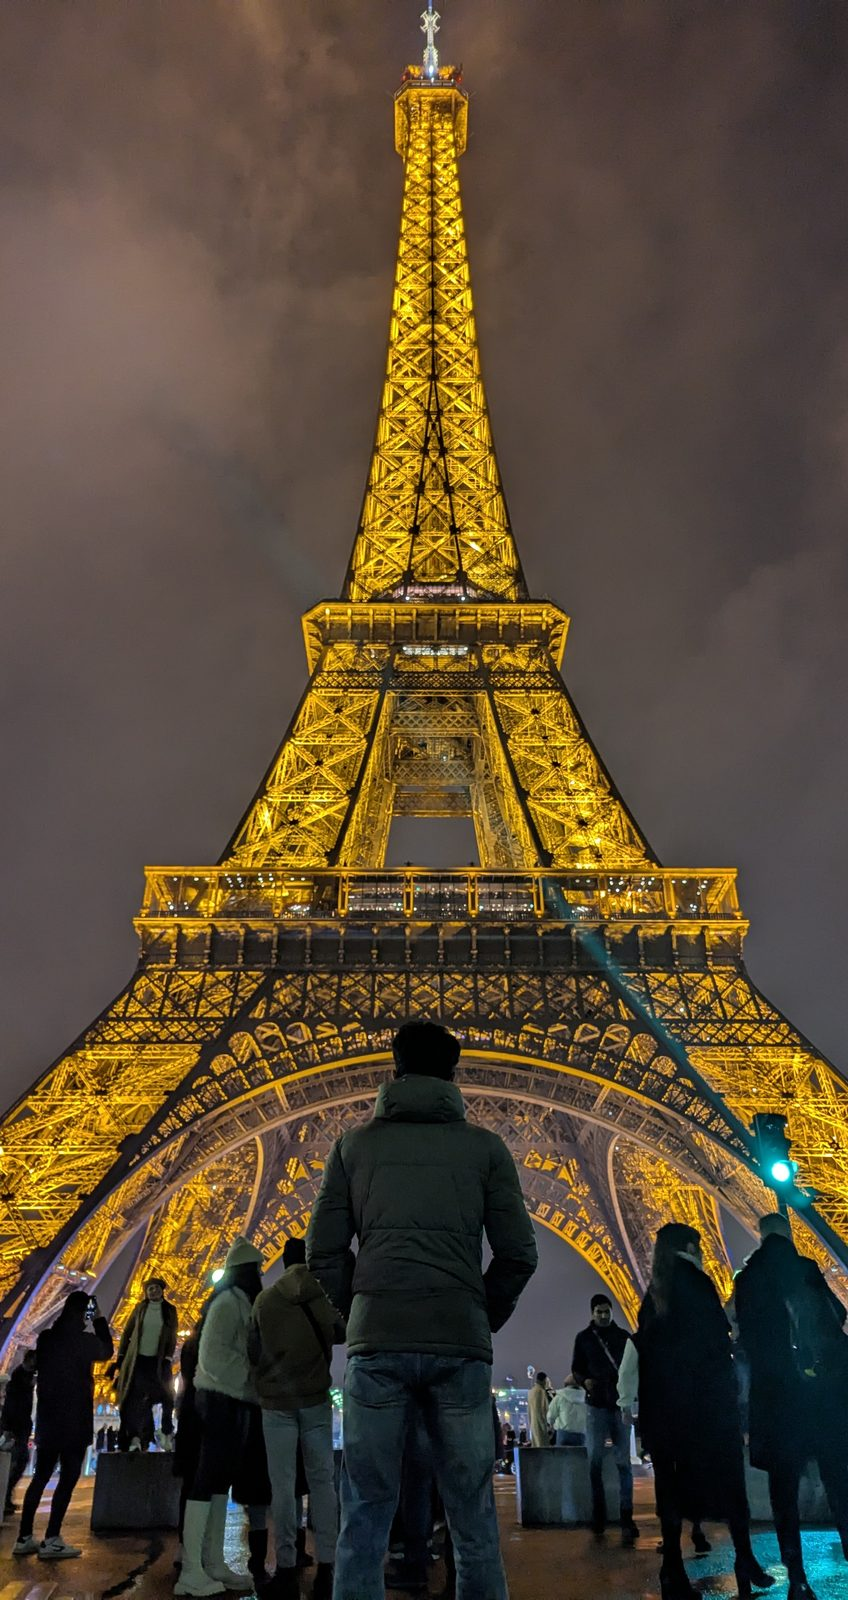
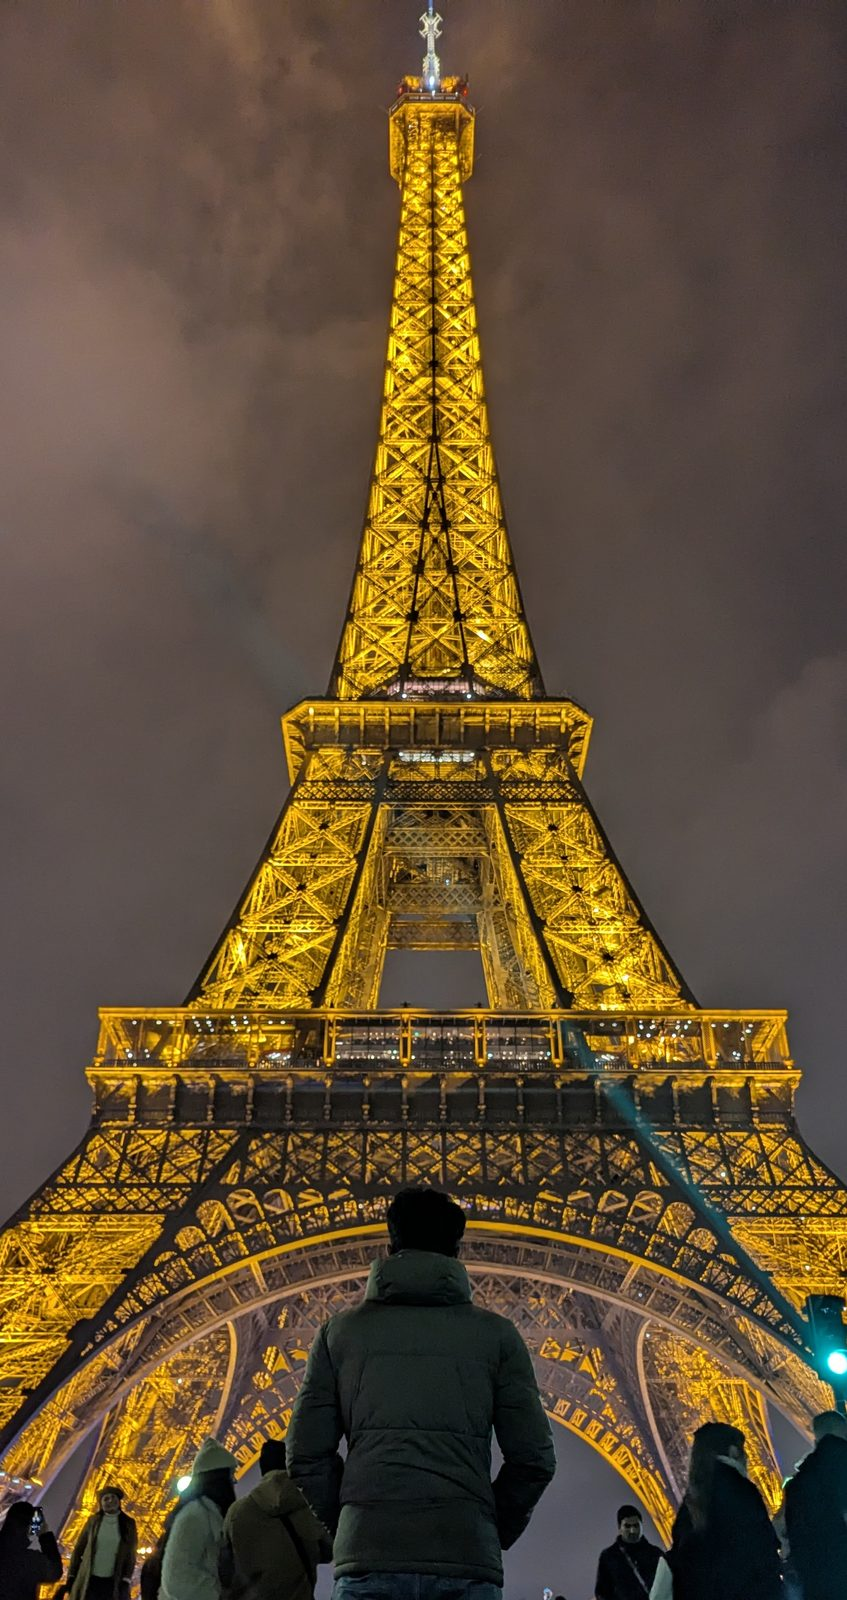
France: Eiffel photo thumbnail matches the rest of its row

diff --git a/france-journey.html b/france-journey.html
@@ -125,7 +125,7 @@
           <p>Then I started exploring Paris by night, starting with the Eiffel Tower, glowing gold against the dark sky.</p>
           <div class="story-chapter-photos">
             <a class="gallery-thumb" href="images/france-1000092617.JPG" target="_blank" rel="noopener"><img src="images/france-1000092617.JPG" alt="Selfie with the glowing Eiffel Tower behind me" loading="lazy" /></a>
-            <a class="gallery-thumb" href="images/france-eiffel-me.jpg" target="_blank" rel="noopener" style="grid-row: span 2;"><img src="images/france-eiffel-me.jpg" alt="Standing beneath the lit-up Eiffel Tower" loading="lazy" style="height: 100%;" /></a>
+            <a class="gallery-thumb" href="images/france-eiffel-me.jpg" target="_blank" rel="noopener"><img src="images/france-eiffel-me.jpg" alt="Standing beneath the lit-up Eiffel Tower" loading="lazy" style="object-position: 50% 92%;" /></a>
             <a class="gallery-thumb" href="images/france-destination.jpg" target="_blank" rel="noopener"><img src="images/france-destination.jpg" alt="Looking up at the golden Eiffel Tower through the branches" loading="lazy" style="object-position: 50% 25%;" /></a>
             <a class="gallery-thumb" href="images/france-1000082680.JPG" target="_blank" rel="noopener"><img src="images/france-1000082680.JPG" alt="The Eiffel Tower sparkling across the Seine at night" loading="lazy" /></a>
           </div>
